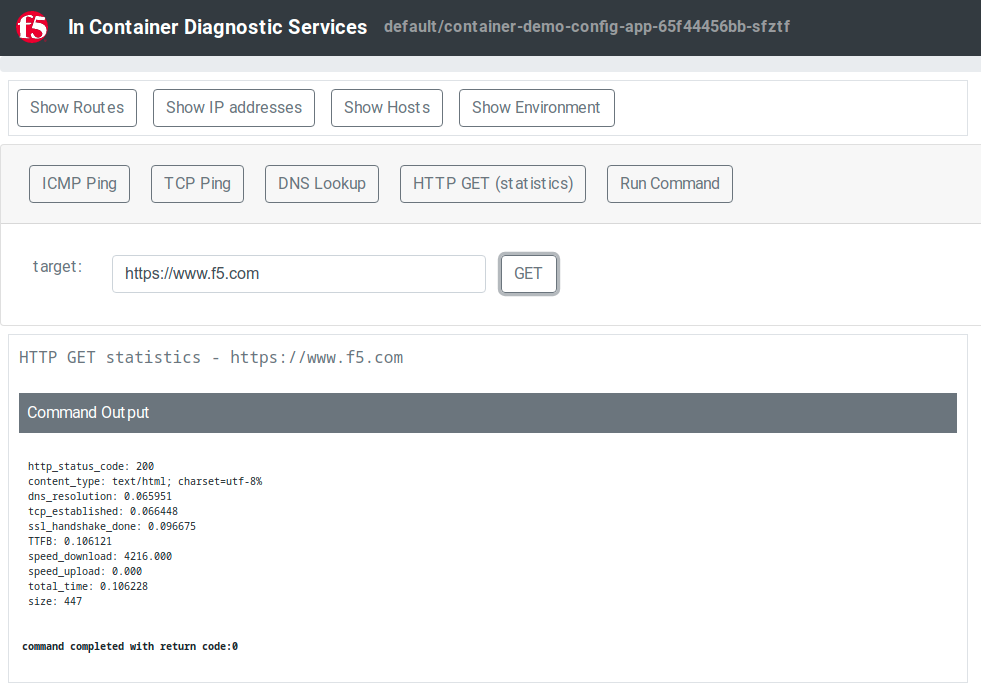
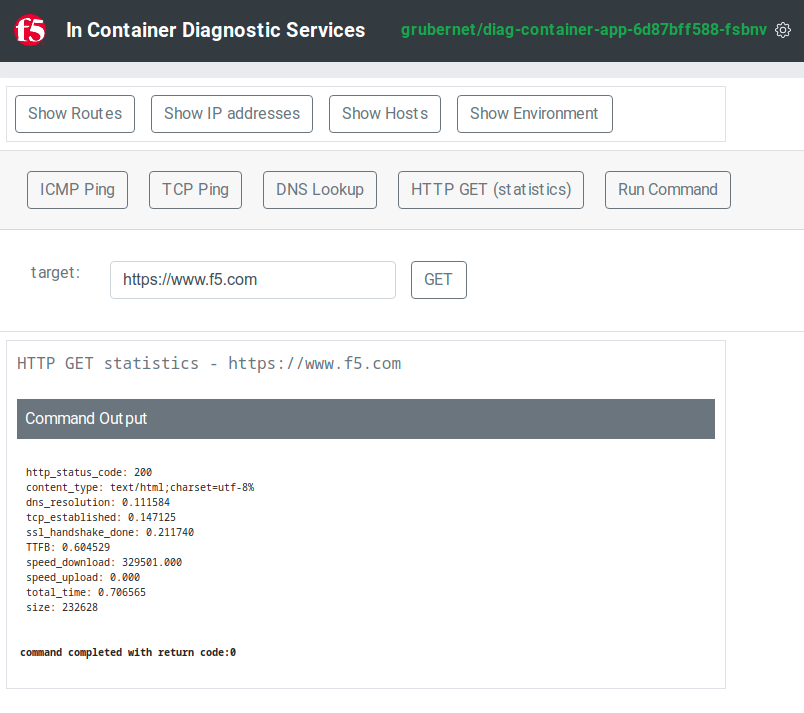
updated doc

diff --git a/README.md b/README.md
@@ -4,16 +4,17 @@
 
 This container hosts a web service and websocket service which enable exposure of the container's environment through a web interface.
 
-By default the web interface is started on port 8080 and the websocket command runner is started on port 5678. 
+By default the web interface and web socket services are started on port 8080. 
 
 ```bash
-docker run --rm -p 8080:8080 -p 5678:5678 --name container-demo-runner jgruberf5/container-demo-runner:latest
+docker run --rm -p 8080:8080 --name container-demo-runner jgruberf5/container-demo-runner:latest
 ```
 
 Then open a web browser to http://localhost:8080 .
 
 ![Application Screenshot](https://github.com/jgruberf5/container-demo-runner/raw/main/static/application_screenshot.png)
 
+The UI will show the remote hostname (or K8s namespace/hostname) in green in the top right corner when the service is connected. The settings (gear) icon to the top far right will let you change which backend websocket command host you are connected to.
 
 ## Configuration
 
@@ -22,7 +23,7 @@ The services will look for the presence of a `/etc/config.yaml` file. The defaul
 ```yaml
 ---
 ws_listen_address: 0.0.0.0
-ws_listen_port: 5678
+ws_listen_port: 8080
 http_listen_address: 0.0.0.0
 http_listen_port: 8080
 allowed_commands:
